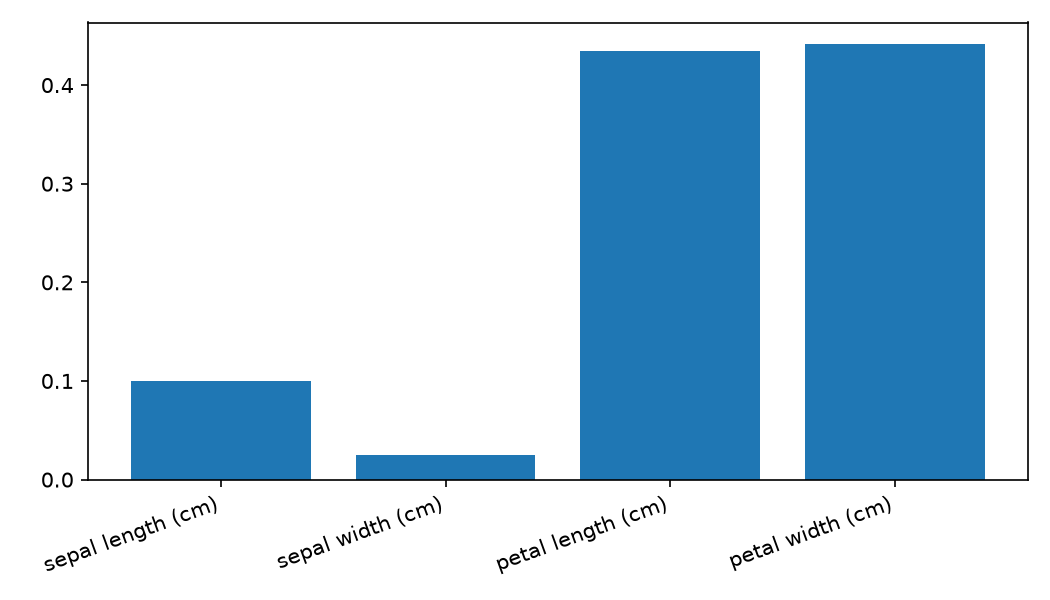
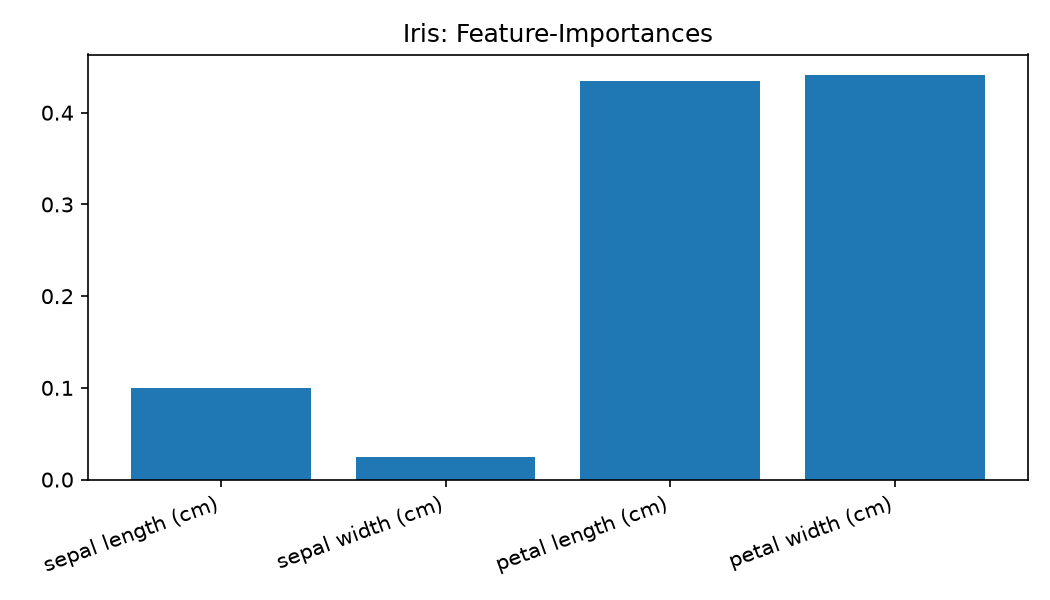
2_8 erledigt

diff --git a/exercises/02_supervised_learning/exercise_2_8_ensembles.py b/exercises/02_supervised_learning/exercise_2_8_ensembles.py
@@ -1,41 +1,250 @@
 """Exercise 2.8: Ensemble-Methoden.
 
 Aufgabenstellung: Vergleiche auf Moons Hard-/Soft-Voting (LDA, SVM, Baum),
-Bagging, Random Forest und Stacking. Bestimme außerdem Iris-Feature-Importances.
+Bagging, Random Forest und Stacking. Bestimme außerdem Feature-Importances
+für Iris sowie Dogs-vs-Cats in Rohpixel- und Wavelet-Darstellung.
 
 Aufruf: pdm run python exercises/02_supervised_learning/exercise_2_8_ensembles.py
 """
 
 import os
+from urllib.request import urlopen
 from pathlib import Path
-os.environ["MPLBACKEND"] = "Agg"; os.environ["MPLCONFIGDIR"] = str(Path("results/.matplotlib").resolve())
+
+os.environ["MPLBACKEND"] = "Agg"
+os.environ["MPLCONFIGDIR"] = str(Path("results/.matplotlib").resolve())
+
 import matplotlib.pyplot as plt
+import numpy as np
+from sklearn.calibration import CalibratedClassifierCV
 from sklearn.datasets import load_iris, make_moons
+from sklearn.decomposition import PCA
 from sklearn.discriminant_analysis import LinearDiscriminantAnalysis
 from sklearn.ensemble import BaggingClassifier, RandomForestClassifier, StackingClassifier, VotingClassifier
 from sklearn.model_selection import train_test_split
 from sklearn.svm import SVC
 from sklearn.tree import DecisionTreeClassifier
+from scipy.io import loadmat
 
-RESULTS = Path("results/exercise_2_8"); SEED = 6020
+RESULTS = Path("results/exercise_2_8")
+DOGS_CATS_DATA = RESULTS / "dogs_cats_data"
+DOGS_CATS_URL = "https://github.com/dynamicslab/databook_python/raw/refs/heads/master/DATA"
+SEED = 6020
+
+
+def create_base_models():
+    return [
+        ("lda", LinearDiscriminantAnalysis()),
+        ("svm", CalibratedClassifierCV(SVC(random_state=SEED), ensemble=False)),
+        ("tree", DecisionTreeClassifier(random_state=SEED)),
+    ]
+
+
+def print_score(name, model, test_x, test_y):
+    test_accuracy = model.score(test_x, test_y)
+    print(f"{name}: Test-Accuracy = {test_accuracy:.3f}")
+
+
+def print_voting_scores(voting, test_x, test_y):
+    print_score("Voting gesamt", voting, test_x, test_y)
+
+    for name, classifier in voting.named_estimators_.items():
+        print_score(f"  {name}", classifier, test_x, test_y)
+
+
+def run_voting_classifiers(train_x, test_x, train_y, test_y):
+    base_models = create_base_models()
+
+    hard_voting = VotingClassifier(base_models, voting="hard")
+    hard_voting.fit(train_x, train_y)
+    print("\nHard Voting")
+    print_voting_scores(hard_voting, test_x, test_y)
+
+    soft_voting = VotingClassifier(base_models, voting="soft")
+    soft_voting.fit(train_x, train_y)
+    print("\nSoft Voting")
+    print_voting_scores(soft_voting, test_x, test_y)
+
+    return base_models
+
+
+def run_bagging_classifier(train_x, test_x, train_y, test_y):
+    bagging = BaggingClassifier(
+        DecisionTreeClassifier(random_state=SEED),
+        n_estimators=500,
+        max_samples=0.8,
+        oob_score=True,
+        random_state=SEED,
+    )
+    bagging.fit(train_x, train_y)
+
+    print("\nBagging")
+    print_score("bagging", bagging, test_x, test_y)
+    print(f"  OOB-Score = {bagging.oob_score_:.3f}")
+
+
+def run_random_forest_classifier(train_x, test_x, train_y, test_y):
+    forest = RandomForestClassifier(
+        n_estimators=500,
+        max_leaf_nodes=16,
+        random_state=SEED,
+    )
+    forest.fit(train_x, train_y)
+
+    print("\nRandom Forest")
+    print_score("random_forest", forest, test_x, test_y)
+
+
+def run_stacking_classifier(base_models, train_x, test_x, train_y, test_y):
+    final_estimator = RandomForestClassifier(n_estimators=200, random_state=SEED)
+    stacking = StackingClassifier(base_models, final_estimator=final_estimator)
+    stacking.fit(train_x, train_y)
+
+    print("\nStacking")
+    print_score("stacking", stacking, test_x, test_y)
+
+
+def run_moons_ensembles():
+    data, labels = make_moons(n_samples=500, noise=0.30, random_state=SEED)
+    train_x, test_x, train_y, test_y = train_test_split(
+        data,
+        labels,
+        random_state=SEED,
+    )
+
+    base_models = run_voting_classifiers(train_x, test_x, train_y, test_y)
+    run_bagging_classifier(train_x, test_x, train_y, test_y)
+    run_random_forest_classifier(train_x, test_x, train_y, test_y)
+    run_stacking_classifier(base_models, train_x, test_x, train_y, test_y)
+
+
+def plot_feature_importances(title, names, importances, filename):
+    plt.figure(figsize=(7, 4))
+    plt.bar(names, importances)
+    plt.title(title)
+    plt.xticks(rotation=20, ha="right")
+    plt.tight_layout()
+    plt.savefig(RESULTS / filename, dpi=150)
+    plt.close()
+
+
+def plot_iris_feature_importances():
+    iris = load_iris()
+    forest = RandomForestClassifier(n_estimators=500, random_state=SEED)
+    forest.fit(iris.data, iris.target)
+
+    print("\nIris Feature-Importances")
+    print("Iris-Importances:", forest.feature_importances_.round(3))
+
+    plot_feature_importances(
+        "Iris: Feature-Importances",
+        iris.feature_names,
+        forest.feature_importances_,
+        "iris_importance.png",
+    )
+
+
+def download_dogs_cats_dataset():
+    DOGS_CATS_DATA.mkdir(parents=True, exist_ok=True)
+
+    for animal in ("dog", "cat"):
+        output = DOGS_CATS_DATA / f"{animal}Data.mat"
+
+        if output.exists():
+            continue
+
+        url = f"{DOGS_CATS_URL}/{animal}Data.mat"
+        print(f"Lade {url} herunter ...")
+
+        with urlopen(url, timeout=60) as response:
+            output.write_bytes(response.read())
+
+
+def load_dogs_cats_images():
+    download_dogs_cats_dataset()
+
+    dog_images = loadmat(DOGS_CATS_DATA / "dogData.mat")["dog"]
+    cat_images = loadmat(DOGS_CATS_DATA / "catData.mat")["cat"]
+
+    dog_images = dog_images.T.reshape(-1, 64, 64) / 255.0
+    cat_images = cat_images.T.reshape(-1, 64, 64) / 255.0
+
+    images = np.vstack((dog_images, cat_images))
+    labels = np.r_[np.zeros(len(dog_images)), np.ones(len(cat_images))]
+
+    return images, labels
+
+
+def haar_wavelet_features(images):
+    features = []
+
+    for image in images:
+        low_columns = (image[:, 0::2] + image[:, 1::2]) / 2
+        high_columns = (image[:, 0::2] - image[:, 1::2]) / 2
+
+        approximation = (low_columns[0::2, :] + low_columns[1::2, :]) / 2
+        horizontal = (low_columns[0::2, :] - low_columns[1::2, :]) / 2
+        vertical = (high_columns[0::2, :] + high_columns[1::2, :]) / 2
+        diagonal = (high_columns[0::2, :] - high_columns[1::2, :]) / 2
+
+        image_features = np.concatenate(
+            (
+                approximation.ravel(),
+                horizontal.ravel(),
+                vertical.ravel(),
+                diagonal.ravel(),
+            )
+        )
+        features.append(image_features)
+
+    return np.array(features)
+
+
+def evaluate_dogs_cats_features(name, features, labels, filename):
+    component_count = min(10, features.shape[0], features.shape[1])
+    pca = PCA(n_components=component_count, random_state=SEED)
+    pca_features = pca.fit_transform(features)
+
+    train_x, test_x, train_y, test_y = train_test_split(
+        pca_features,
+        labels,
+        random_state=SEED,
+        stratify=labels,
+    )
+
+    forest = RandomForestClassifier(n_estimators=500, random_state=SEED)
+    forest.fit(train_x, train_y)
+
+    component_names = [f"PC {index + 1}" for index in range(component_count)]
+
+    print_score(f"Dogs/Cats {name}", forest, test_x, test_y)
+    print(f"Dogs/Cats {name} PCA-Importances:", forest.feature_importances_.round(3))
+
+    plot_feature_importances(
+        f"Dogs/Cats {name}: PCA-Feature-Importances",
+        component_names,
+        forest.feature_importances_,
+        filename,
+    )
+
+
+def evaluate_dogs_cats_feature_importances():
+    images, labels = load_dogs_cats_images()
+    raw_features = images.reshape(len(images), -1)
+    wavelet_features = haar_wavelet_features(images)
+
+    print("\nDogs/Cats Feature-Importances")
+    evaluate_dogs_cats_features("raw", raw_features, labels, "dogs_cats_raw_importance.png")
+    evaluate_dogs_cats_features("wavelet", wavelet_features, labels, "dogs_cats_wavelet_importance.png")
 
 
 def main():
-    RESULTS.mkdir(parents=True, exist_ok=True); data, labels = make_moons(n_samples=500, noise=.30, random_state=SEED)
-    train_x, test_x, train_y, test_y = train_test_split(data, labels, random_state=SEED, stratify=labels)
-    base = [("lda", LinearDiscriminantAnalysis()), ("svm", SVC(probability=True, random_state=SEED)), ("tree", DecisionTreeClassifier(random_state=SEED))]
-    models = {
-        "hard_voting": VotingClassifier(base, voting="hard"), "soft_voting": VotingClassifier(base, voting="soft"),
-        "bagging": BaggingClassifier(DecisionTreeClassifier(), n_estimators=500, max_samples=.8, oob_score=True, random_state=SEED),
-        "random_forest": RandomForestClassifier(n_estimators=500, max_leaf_nodes=16, random_state=SEED),
-        "stacking": StackingClassifier(base, final_estimator=RandomForestClassifier(n_estimators=200, random_state=SEED)),
-    }
-    for name, model in models.items():
-        model.fit(train_x, train_y); extra = f", OOB={model.oob_score_:.3f}" if name == "bagging" else ""
-        print(f"{name}: Test-Accuracy = {model.score(test_x, test_y):.3f}{extra}")
-    iris = load_iris(); forest = RandomForestClassifier(n_estimators=500, random_state=SEED).fit(iris.data, iris.target)
-    plt.figure(figsize=(7, 4)); plt.bar(iris.feature_names, forest.feature_importances_); plt.xticks(rotation=20, ha="right"); plt.tight_layout(); plt.savefig(RESULTS / "iris_importance.png", dpi=150); plt.close()
-    print("Iris-Importances:", forest.feature_importances_.round(3))
+    RESULTS.mkdir(parents=True, exist_ok=True)
+
+    run_moons_ensembles()
+    plot_iris_feature_importances()
+    evaluate_dogs_cats_feature_importances()
 
 
-if __name__ == "__main__": main()
+if __name__ == "__main__":
+    main()